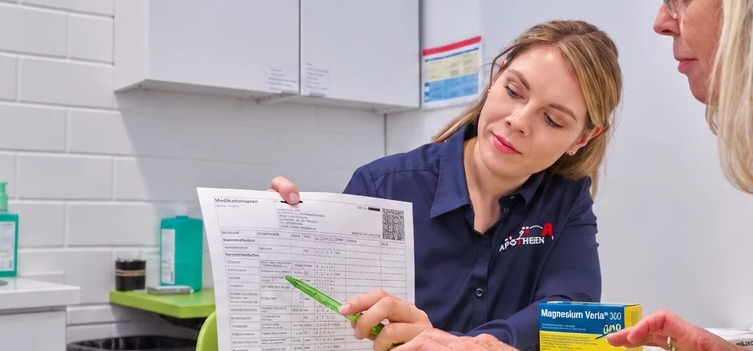
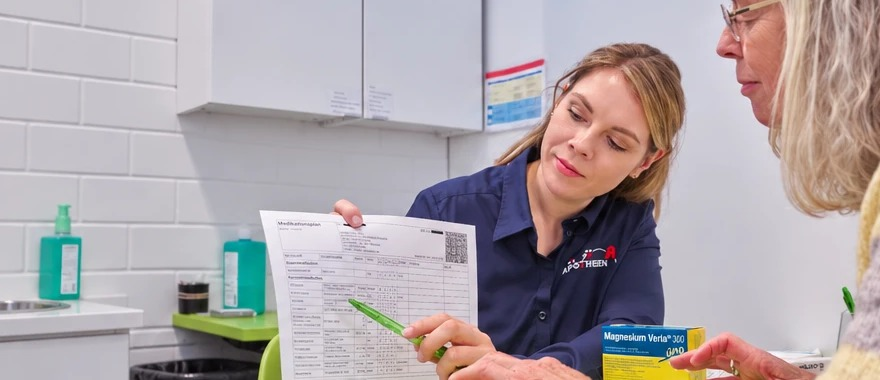
Space out step badges, zoom out hero photo for a sharper, more natural crop
Ablauf: added margin-bottom to .step-duration so there's real spacing
between the duration badge (e.g. "Sofort möglich") and the step
heading below it. Since it's a shared class, this applies consistently
to all four step cards.

Hero: replaced the tightly-cropped photo with a much larger crop from
the same source (880x380 vs 753x351) and roughly halved the card's
overlap into the image, so significantly more of the photo is visible
above the card - both faces read naturally instead of looking
zoomed/cropped in, and the larger source crop reduces the upscaling
needed at wide viewports for a noticeably sharper result. The header's
own size/aspect-ratio is unchanged; the larger gap this leaves beside
the card is invisible since the hero background is already white.

Claude-Session: https://claude.ai/code/session_01XLhHeWYtKyT8mPMe2s9Kra

diff --git a/css/style.css b/css/style.css
@@ -294,7 +294,7 @@ img { max-width: 100%; display: block; }
   background: #fff;
   border-radius: var(--radius-l);
   padding: 32px clamp(24px, 4vw, 48px);
-  margin-top: clamp(-400px, -28vw, -280px);
+  margin-top: clamp(-220px, -15vw, -140px);
   box-shadow: 0 30px 60px -14px rgba(44, 46, 43, .25);
 }
 .hero-sub { font-size: 1.12rem; max-width: 640px; }
@@ -622,6 +622,7 @@ img { max-width: 100%; display: block; }
   letter-spacing: .02em;
   padding: 5px 10px;
   border-radius: 999px;
+  margin-bottom: 16px;
 }
 .step p { font-size: .9rem; margin-bottom: 0; }
 .step-cta {
